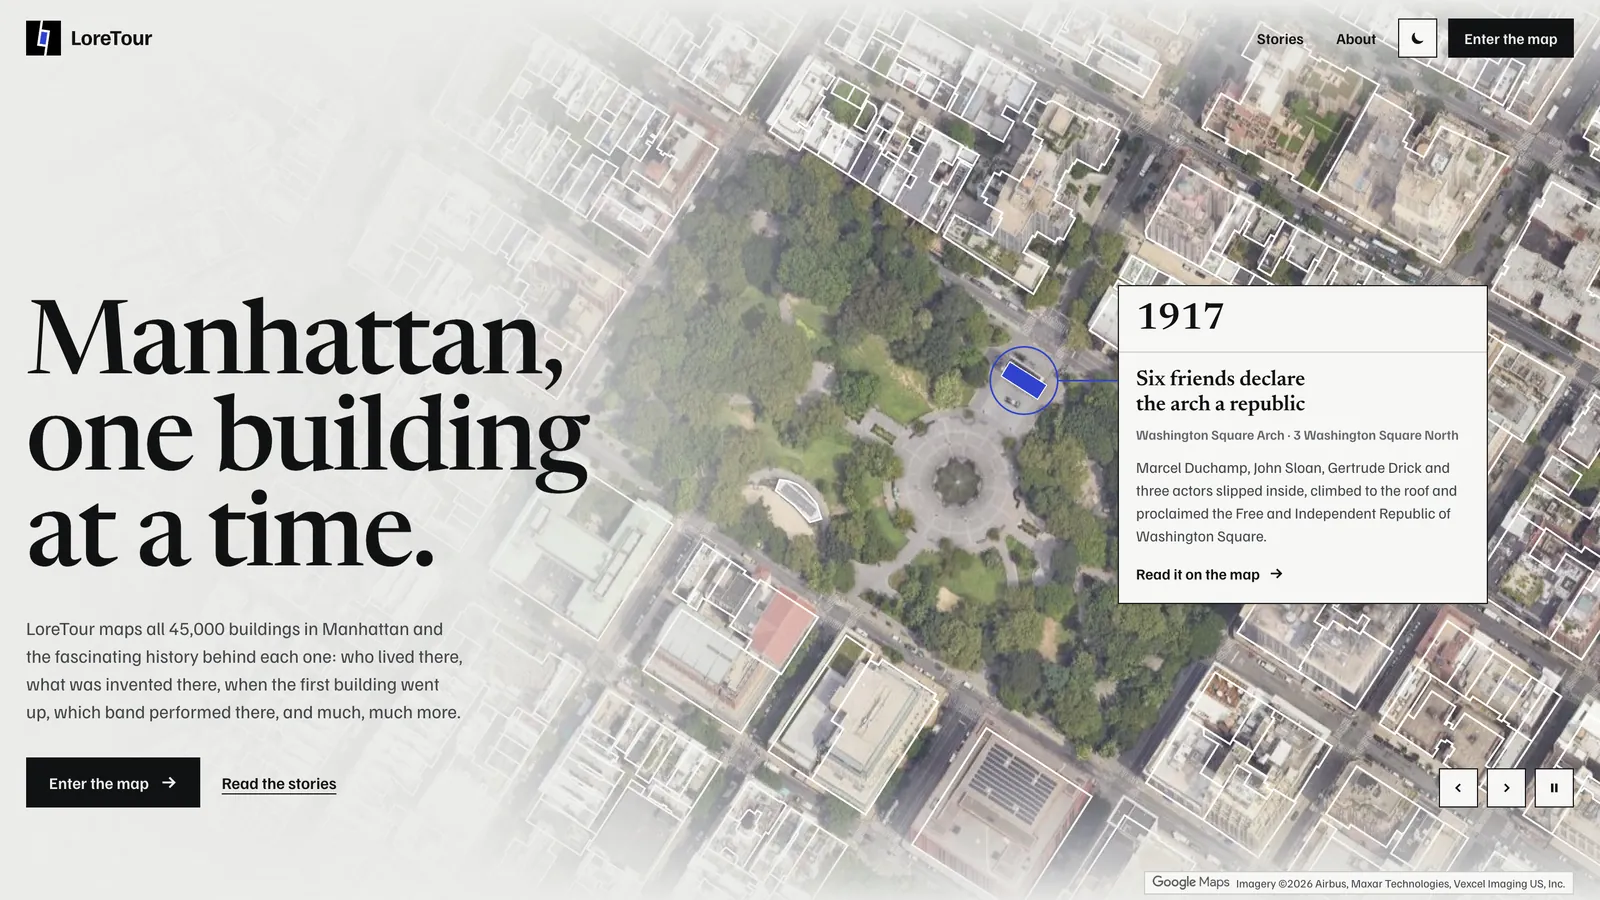
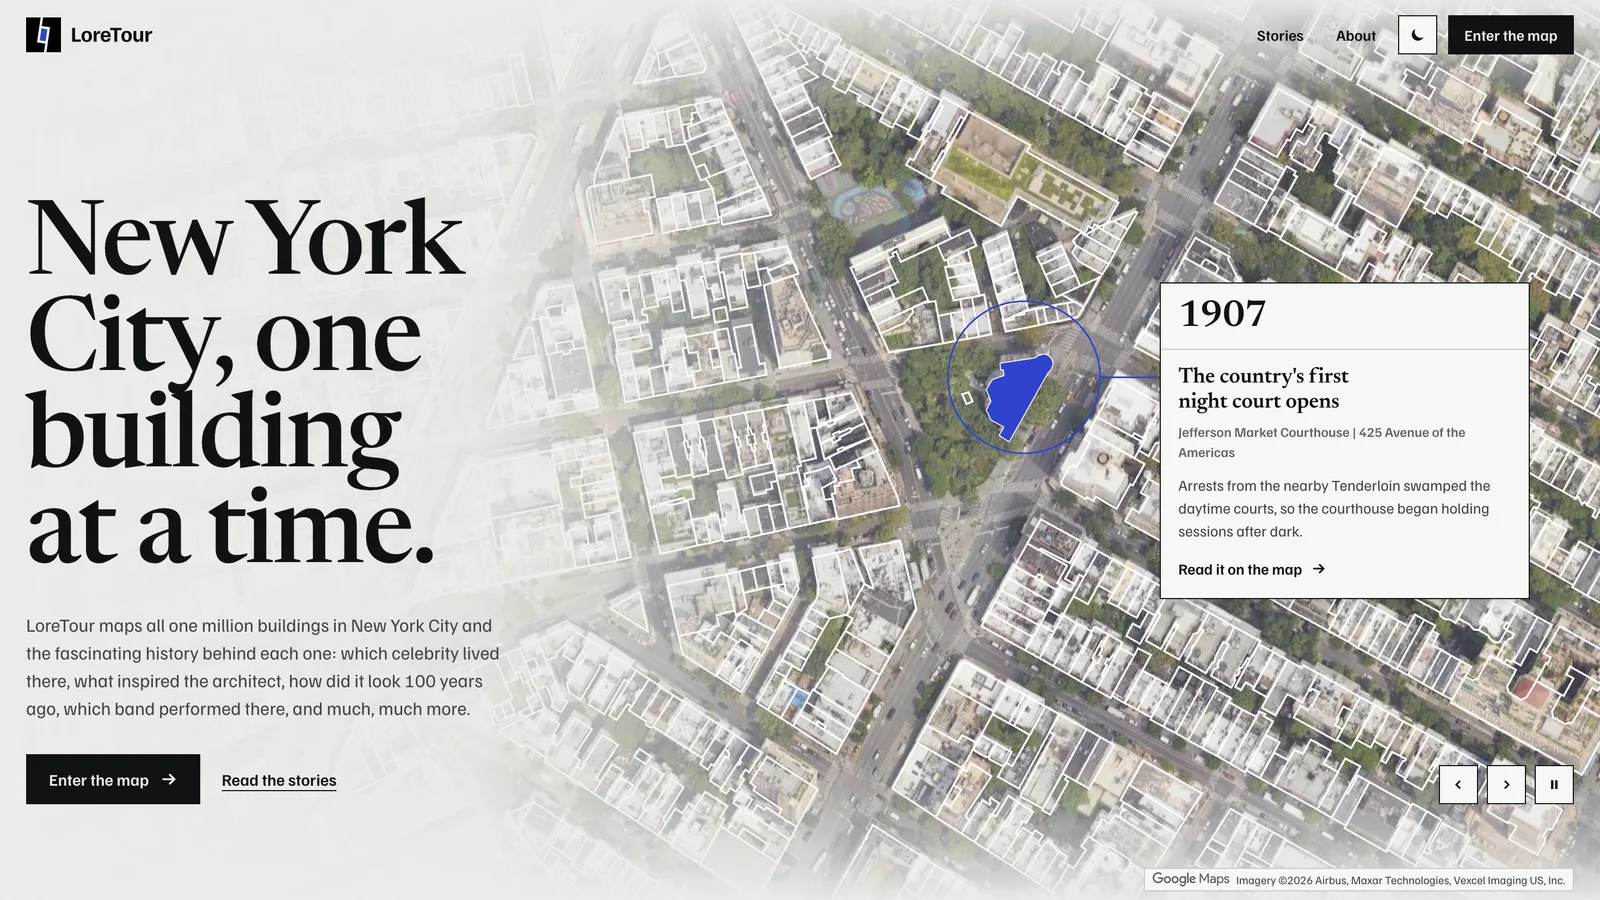
Portfolio: LoreTour covers all of New York City, with its new front page as the screenshot
Claude-Session: https://claude.ai/code/session_014yXicDLCutzVwFqFSoc9DD

diff --git a/portfolio/loretour/index.html b/portfolio/loretour/index.html
@@ -5,7 +5,7 @@
     <meta name="viewport" content="width=device-width, initial-scale=1" />
     <meta name="robots" content="noindex, nofollow, noarchive" />
     <title>loretour.com — Noah Darwin Lee</title>
-    <meta name="description" content="Uncover the hidden history of Manhattan, building by building." />
+    <meta name="description" content="Uncover the hidden history of New York City, building by building." />
     <link rel="icon" href="../../favicon.png" type="image/png" />
     
     <link rel="preload" href="/fonts/familjen-grotesk-latin-wght-normal.woff2" as="font" type="font/woff2" crossorigin />
@@ -24,7 +24,7 @@
         <h1 class="p-name">loretour<span class="tld">.com</span></h1>
         <a class="go" href="https://loretour.com" target="_blank" rel="noopener noreferrer">Visit <svg width="14" height="14" viewBox="0 0 14 14" aria-hidden="true"><path d="M3 11 11 3M5 3h6v6" fill="none" stroke="currentColor" stroke-width="1.6" /></svg></a>
       </div>
-      <p class="p-lede">Uncover the hidden history of Manhattan, building by building. Explore an interactive map of over 45,000 structures to instantly unlock their lore. Tap any building to dive into deep historical timelines, verified archival photos, crowdsourced visitor notes, and an immersive 3D view.</p>
+      <p class="p-lede">Uncover the hidden history of New York City, building by building. Explore an interactive map of all one million structures to learn about their lore. Tap any building to dive into deep historical timelines, verified archival photos, crowdsourced visitor notes, an immersive 3D view, and more.</p>
 
       <section class="shots" aria-roledescription="carousel" aria-label="Screenshots of loretour.com">
         <div class="frame">
